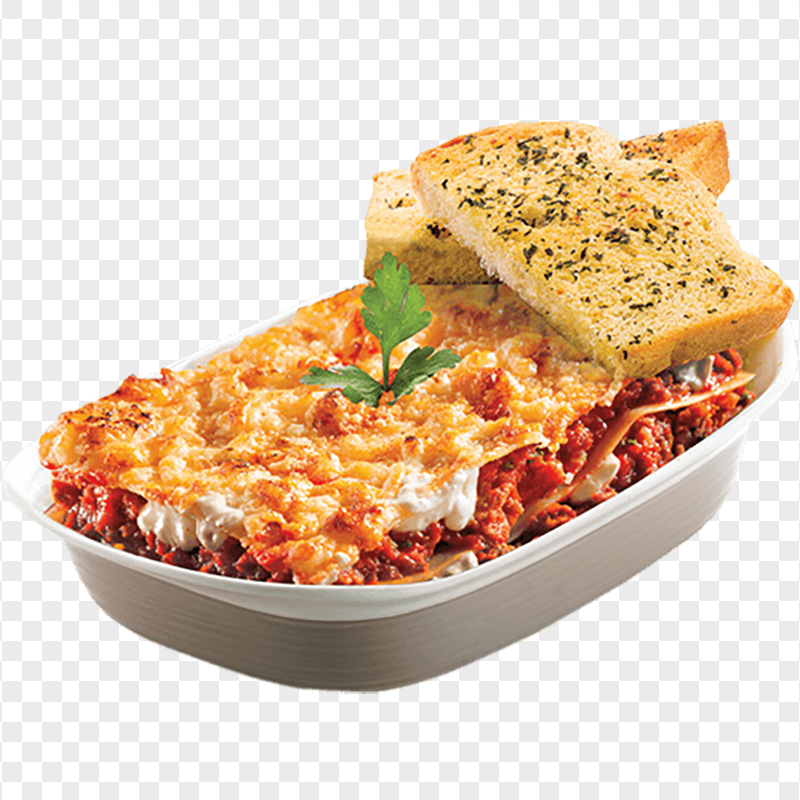
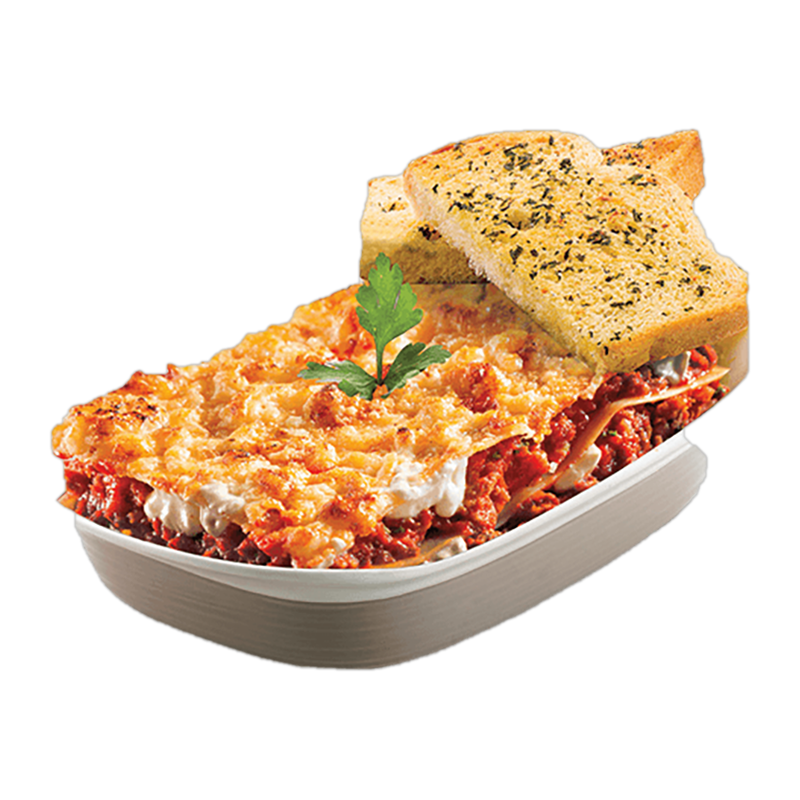
update all menu item images

diff --git a/data/menu.js b/data/menu.js
@@ -35,32 +35,32 @@ export const categories = [
     emoji: "🍕",
     desc: "14+ amazing flavours",
     items: [
-      { id: 1, name: "Chicken Tikka", desc: "Juicy tikka pieces with fresh capsicum & our signature sauce", price: 600, priceR: 900, priceL: 1500, hasSize: true, hasThree: true, img: pizzaImg.tikka, tag: "Bestseller" },
-      { id: 2, name: "Chicken Fajita", desc: "Smoky grilled chicken with peppers & creamy fajita sauce", price: 600, priceR: 900, priceL: 1500, hasSize: true, hasThree: true, img: pizzaImg.fajita },
-      { id: 3, name: "Behari Tikka", desc: "Tender behari marinated chicken with herbs", price: 600, priceR: 900, priceL: 1500, hasSize: true, hasThree: true, img: pizzaImg.tikka },
-      { id: 4, name: "Shawarma", desc: "Arabic-style shawarma filling on a crispy base", price: 600, priceR: 900, priceL: 1500, hasSize: true, hasThree: true, img: pizzaImg.special },
-      { id: 5, name: "Creamy Afghani", desc: "Rich creamy Afghani sauce with tender chicken", price: 600, priceR: 900, priceL: 1500, hasSize: true, hasThree: true, img: pizzaImg.supreme },
-      { id: 6, name: "Spicy Lover", desc: "Extra hot & spicy for heat lovers 🌶", price: 600, priceR: 900, priceL: 1500, hasSize: true, hasThree: true, img: pizzaImg.spicy, tag: "🌶 Hot" },
-      { id: 7, name: "Argi Iani Tikka", desc: "Special Argi Iani marinated tikka with cheese", price: 600, priceR: 900, priceL: 1500, hasSize: true, hasThree: true, img: pizzaImg.tikka },
-      { id: 8, name: "Sicilian", desc: "Classic Italian-style Sicilian pizza", price: 600, priceR: 900, priceL: 1500, hasSize: true, hasThree: true, img: pizzaImg.default },
-      { id: 9, name: "Malai Tikka", desc: "Creamy malai-marinated chicken, mild & rich", price: 600, priceR: 900, priceL: 1500, hasSize: true, hasThree: true, img: pizzaImg.tikka, tag: "Fan Fav" },
-      { id: 10, name: "Hot N Spicy", desc: "Double the heat with our signature spicy blend", price: 600, priceR: 900, priceL: 1500, hasSize: true, hasThree: true, img: pizzaImg.spicy, tag: "🌶 Hot" },
-      { id: 11, name: "Tandoori Tikka", desc: "Authentic tandoori flavour on a fresh pizza base", price: 600, priceR: 900, priceL: 1500, hasSize: true, hasThree: true, img: pizzaImg.tikka },
-      { id: 12, name: "Veggie Lover", desc: "Fresh garden vegetables with mozzarella cheese", price: 600, priceR: 900, priceL: 1500, hasSize: true, hasThree: true, img: pizzaImg.veggie },
-      { id: 13, name: "Chicken Supreme", desc: "Loaded with chicken, olives, peppers & mushrooms", price: 600, priceR: 900, priceL: 1500, hasSize: true, hasThree: true, img: pizzaImg.supreme, tag: "Premium" },
-      { id: 14, name: "Mix Super", desc: "Everything on one pizza — the ultimate mix!", price: 600, priceR: 900, priceL: 1500, hasSize: true, hasThree: true, img: pizzaImg.supreme, tag: "Popular" },
-    ],
+  { id: 1, name: "Chicken Tikka", desc: "Juicy tikka pieces with fresh capsicum & our signature sauce", price: 600, priceR: 900, priceL: 1500, hasSize: true, hasThree: true, img: "/Chicken-Tikka.png", tag: "Bestseller" },
+  { id: 2, name: "Chicken Fajita", desc: "Smoky grilled chicken with peppers & creamy fajita sauce", price: 600, priceR: 900, priceL: 1500, hasSize: true, hasThree: true, img: "/Chicken-Fajita.png" },
+  { id: 3, name: "Behari Tikka", desc: "Tender behari marinated chicken with herbs", price: 600, priceR: 900, priceL: 1500, hasSize: true, hasThree: true, img: "/Behari-Tikka.png" },
+  { id: 4, name: "Shawarma", desc: "Arabic-style shawarma filling on a crispy base", price: 600, priceR: 900, priceL: 1500, hasSize: true, hasThree: true, img: "/Shawarma.png" },
+  { id: 5, name: "Creamy Afghani", desc: "Rich creamy Afghani sauce with tender chicken", price: 600, priceR: 900, priceL: 1500, hasSize: true, hasThree: true, img: "/Creamy-Afghani.png" },
+  { id: 6, name: "Spicy Lover", desc: "Extra hot & spicy for heat lovers 🌶", price: 600, priceR: 900, priceL: 1500, hasSize: true, hasThree: true, img: "/Spicy-Lover.png", tag: "🌶 Hot" },
+  { id: 7, name: "Argi Iani Tikka", desc: "Special Argi Iani marinated tikka with cheese", price: 600, priceR: 900, priceL: 1500, hasSize: true, hasThree: true, img: "/Argi-Iani-Tikka.png" },
+  { id: 8, name: "Sicilian", desc: "Classic Italian-style Sicilian pizza", price: 600, priceR: 900, priceL: 1500, hasSize: true, hasThree: true, img: "/Sicilian.png" },
+  { id: 9, name: "Malai Tikka", desc: "Creamy malai-marinated chicken, mild & rich", price: 600, priceR: 900, priceL: 1500, hasSize: true, hasThree: true, img: "/Malai-Tikka.png", tag: "Fan Fav" },
+  { id: 10, name: "Hot N Spicy", desc: "Double the heat with our signature spicy blend", price: 600, priceR: 900, priceL: 1500, hasSize: true, hasThree: true, img: "/Hot-N-Spicy.png", tag: "🌶 Hot" },
+  { id: 11, name: "Tandoori Tikka", desc: "Authentic tandoori flavour on a fresh pizza base", price: 600, priceR: 900, priceL: 1500, hasSize: true, hasThree: true, img: "/Tandoori-Tikka.png" },
+  { id: 12, name: "Veggie Lover", desc: "Fresh garden vegetables with mozzarella cheese", price: 600, priceR: 900, priceL: 1500, hasSize: true, hasThree: true, img: "/Veggie-Lover.png" },
+  { id: 13, name: "Chicken Supreme", desc: "Loaded with chicken, olives, peppers & mushrooms", price: 600, priceR: 900, priceL: 1500, hasSize: true, hasThree: true, img: "/Chicken-Supreme.png", tag: "Premium" },
+  { id: 14, name: "Mix Super", desc: "Everything on one pizza — the ultimate mix!", price: 600, priceR: 900, priceL: 1500, hasSize: true, hasThree: true, img: "/Mix-Super.png", tag: "Popular" },
+],
   },
   {
     id: "special-pizza",
     label: "Special Pizza",
     emoji: "⭐",
     desc: "Signature creations",
-    items: [
-      { id: 15, name: "Turkish Pizza", desc: "Authentic Turkish style with special spices & toppings", price: 1150, priceL: 1650, hasSize: true, hasRegular: true, img: pizzaImg.special, tag: "Chef's Pick" },
-      { id: 16, name: "Crown Pizza", desc: "Stuffed crust crown pizza with premium fillings", price: 1150, priceL: 1650, hasSize: true, hasRegular: true, img: pizzaImg.supreme, tag: "Must Try" },
-      { id: 17, name: "Scholar Signature", desc: "Our secret recipe — the pride of Scholar Pizza 🎓", price: 1150, priceL: 1650, hasSize: true, hasRegular: true, img: pizzaImg.default, tag: "Signature" },
-    ],
+  items: [
+  { id: 15, name: "Turkish Pizza", desc: "Authentic Turkish style with special spices & toppings", price: 1150, priceL: 1650, hasSize: true, hasRegular: true, img: "/Turkish-Pizza.png", tag: "Chef's Pick" },
+  { id: 16, name: "Crown Pizza", desc: "Stuffed crust crown pizza with premium fillings", price: 1150, priceL: 1650, hasSize: true, hasRegular: true, img: "/Crown-Pizza.png", tag: "Must Try" },
+  { id: 17, name: "Scholar Signature", desc: "Our secret recipe — the pride of Scholar Pizza 🎓", price: 1150, priceL: 1650, hasSize: true, hasRegular: true, img: "/Scholar-Signature.png", tag: "Signature" },
+],
   },
   {
     id: "burgers",
@@ -80,28 +80,28 @@ export const categories = [
     emoji: "🥪",
     desc: "Fresh & filling",
     items: [
-      { id: 22, name: "Club Sandwich", desc: "Triple-layered club with chicken, veggies & sauces", price: 449, hasSize: false, img: pizzaImg.sandwich },
-      { id: 23, name: "Sticko Sandwich", desc: "Long toasted sandwich with spicy filling", price: 499, hasSize: false, img: pizzaImg.sandwich },
-      { id: 24, name: "Garlic Sandwich", desc: "Buttery garlic toasted sandwich with chicken", price: 499, hasSize: false, img: pizzaImg.garlic },
-      { id: 25, name: "Spicy Sandwich", desc: "Extra spicy chicken sandwich with jalapeños", price: 499, hasSize: false, img: pizzaImg.sandwich, tag: "🌶 Hot" },
-      { id: 26, name: "BBQ Club Sandwich", desc: "Smoky BBQ sauce club sandwich with grilled chicken", price: 600, hasSize: false, img: pizzaImg.sandwich, tag: "New" },
-    ],
+  { id: 22, name: "Club Sandwich", desc: "Triple-layered club with chicken, veggies & sauces", price: 449, hasSize: false, img: "/Club-Sandwich.png" },
+  { id: 23, name: "Sticko Sandwich", desc: "Long toasted sandwich with spicy filling", price: 499, hasSize: false, img: "/Garlic-Sandwich.png" },
+  { id: 24, name: "Garlic Sandwich", desc: "Buttery garlic toasted sandwich with chicken", price: 499, hasSize: false, img: "/Garlic-Sandwich.png" },
+  { id: 25, name: "Spicy Sandwich", desc: "Extra spicy chicken sandwich with jalapeños", price: 499, hasSize: false, img: "/Spicy-Sandwich.png", tag: "🌶 Hot" },
+  { id: 26, name: "BBQ Club Sandwich", desc: "Smoky BBQ sauce club sandwich with grilled chicken", price: 600, hasSize: false, img: "/BBQ-Club-Sandwich.png", tag: "New" },
+],
   },
   {
     id: "appetizers",
     label: "Sides & Starters",
     emoji: "🍟",
     desc: "Perfect with any meal",
-    items: [
-      { id: 27, name: "French Fries", desc: "Golden crispy fries, perfectly salted", price: 249, hasSize: false, img: pizzaImg.fries },
-      { id: 28, name: "Pizza Fries", desc: "Fries loaded with pizza sauce & melted cheese", price: 449, hasSize: false, img: pizzaImg.fries, tag: "Fan Fav" },
-      { id: 29, name: "Garlic Bread (4 pcs)", desc: "Toasted garlic butter bread — perfect starter", price: 349, hasSize: false, img: pizzaImg.garlic },
-      { id: 30, name: "Cheese Bread (4 pcs)", desc: "Soft bread loaded with melted mozzarella", price: 499, hasSize: false, img: pizzaImg.garlic, tag: "Cheesy" },
-      { id: 31, name: "Cheese Sticks (4 pcs)", desc: "Crispy fried mozzarella sticks with dip", price: 499, hasSize: false, img: pizzaImg.garlic },
-      { id: 32, name: "Nuggets (5 pcs)", desc: "Crispy golden chicken nuggets with sauce", price: 499, hasSize: false, img: pizzaImg.nuggets },
-      { id: 33, name: "Nuggets (10 pcs)", desc: "Double portion of crispy chicken nuggets", price: 799, hasSize: false, img: pizzaImg.nuggets, tag: "Value" },
-      { id: 34, name: "Chicken Wings (5 pcs)", desc: "Juicy spiced chicken wings, fried to perfection", price: 449, hasSize: false, img: pizzaImg.wings },
-    ],
+items: [
+  { id: 27, name: "French Fries", desc: "Golden crispy fries, perfectly salted", price: 249, hasSize: false, img: "/French-Fries.png" },
+  { id: 28, name: "Pizza Fries", desc: "Fries loaded with pizza sauce & melted cheese", price: 449, hasSize: false, img: "/Pizza-Fries.png", tag: "Fan Fav" },
+  { id: 29, name: "Garlic Bread (4 pcs)", desc: "Toasted garlic butter bread — perfect starter", price: 349, hasSize: false, img: "/Garlic-Bread.png" },
+  { id: 30, name: "Cheese Bread (4 pcs)", desc: "Soft bread loaded with melted mozzarella", price: 499, hasSize: false, img: "/Cheese-Bread.png", tag: "Cheesy" },
+  { id: 31, name: "Cheese Sticks (4 pcs)", desc: "Crispy fried mozzarella sticks with dip", price: 499, hasSize: false, img: "/Cheese-Sticks.png" },
+  { id: 32, name: "Nuggets (5 pcs)", desc: "Crispy golden chicken nuggets with sauce", price: 499, hasSize: false, img: "/Nuggets.png" },
+  { id: 33, name: "Nuggets (10 pcs)", desc: "Double portion of crispy chicken nuggets", price: 799, hasSize: false, img: "/Nuggets-10pcs.png", tag: "Value" },
+  { id: 34, name: "Chicken Wings (5 pcs)", desc: "Juicy spiced chicken wings, fried to perfection", price: 449, hasSize: false, img: "/Chickenp-Wings.png" },
+],
   },
   {
     id: "pasta",

diff --git a/app/page.jsx b/app/page.jsx
@@ -38,7 +38,7 @@ function ItemCard({ item, onAdd }) {
   };
   return (
     <div style={{ background: "#fff", borderRadius: 16, overflow: "hidden", boxShadow: "0 2px 12px rgba(0,0,0,0.06)", border: "1px solid #f0ede8", display: "flex", flexDirection: "column" }}>
-      <div style={{ position: "relative", width: "100%", aspectRatio: "1/1", background: "#f5f2ee", flexShrink: 0, overflow: "hidden", padding: "20px" }}>
+      <div style={{ position: "relative", width: "100%", aspectRatio: "1/1", background: "#f5f2ee", flexShrink: 0, overflow: "hidden", padding: "3px" }}>
       <img src={item.img} alt={item.name} style={{ width: "100%", height: "100%", objectFit: "cover", objectPosition: "center", borderRadius: 8 }} loading="lazy" />     {item.tag && (
         <span style={{ position: "absolute", top: 8, left: 8, background: item.tag.includes("🌶") ? "#e53e3e" : item.tag.includes("🔥") || item.tag.includes("Deal") ? "#dd6b20" : "#c0340d", color: "#fff", borderRadius: 20, padding: "3px 10px", fontSize: 11, fontWeight: 700 }}>{item.tag}</span>
       )}
